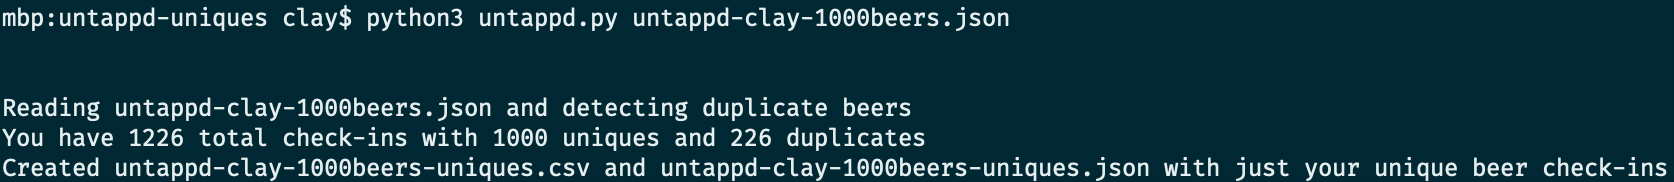
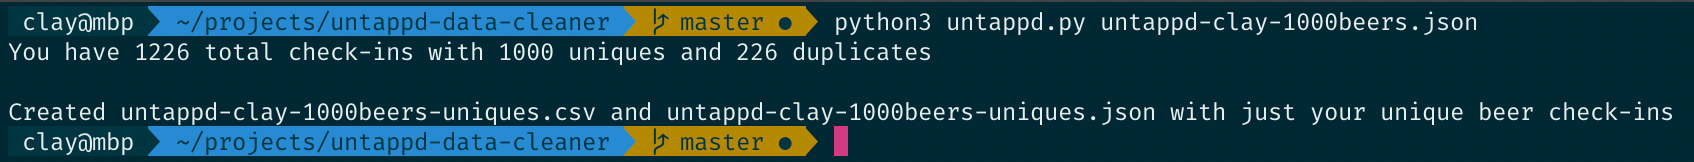
cleaned up code, new image for readme

diff --git a/untappd.py b/untappd.py
@@ -10,62 +10,26 @@ a = p.parse_args()
 data = json.load(open(a.file))
 fne = str(a.file[:len(a.file)-5]) + '-uniques.csv'
 fnej = str(a.file[:len(a.file)-5]) + '-uniques.json'
-
-def dupeFinder():
-    print('Reading ' + a.file + ' and detecting duplicate beers')
-    btlist = []
-
-    for i in range(0, len(data)):
-        beertupl = data[i]['beer_name'], data[i]['beer_url']  # different breweries name beers the same name
-        btlist.append(beertupl)
-
-    uniques = []
-    dupes = []
-    uniqueindexes = []
-    for i in range(0, len(btlist)):
-        if btlist[i] not in uniques:
-            uniques.append(btlist[i])
-            uniqueindexes.append(i)
-        else:
-            dupes.append(btlist[i])
-    print("You have " + str(len(btlist)) + ' total check-ins with ' + str(len(uniques)) + ' uniques and ' +
-          str(len(dupes)) + ' duplicates')
-    return uniqueindexes
-
-
-def createcsv(indexes):
-    with open(fne, 'w') as f:
-        cw = csv.writer(f)
-        cw.writerow(['beer_name', 'brewery_name', 'beer_type', 'beer_abv', 'beer_ibu', 'comment', 'venue_name',
+csv_header = ['beer_name', 'brewery_name', 'beer_type', 'beer_abv', 'beer_ibu', 'comment', 'venue_name',
                      'venue_city', 'venue_state', 'venue_country', 'venue_lat', 'venue_lng', 'rating_score',
                      'created_at', 'checkin_url', 'beer_url', 'brewery_url', 'brewery_country', 'brewery_city',
-                     'brewery_state', 'flavor_profiles', 'purchase_venue', 'serving_type'])
-        for i in indexes:
-            cw.writerow([data[i]['beer_name'], data[i]['brewery_name'], data[i]['beer_type'], data[i]['beer_abv'],
-                        data[i]['beer_ibu'], data[i]['comment'], data[i]['venue_name'], data[i]['venue_city'],
-                        data[i]['venue_state'], data[i]['venue_country'], data[i]['venue_lat'],
-                        data[i]['venue_lng'], data[i]['rating_score'], data[i]['created_at'],
-                        data[i]['checkin_url'], data[i]['beer_url'], data[i]['brewery_url'],
-                        data[i]['brewery_country'], data[i]['brewery_city'], data[i]['brewery_state'],
-                        data[i]['flavor_profiles'], data[i]['purchase_venue'], data[i]['serving_type']])
-
-
-def createjson():
-    ucsv = open(fne, 'r')
-    ujson = open(fnej, 'w')
-    r = csv.DictReader(ucsv)
-    ujson.write('[')
-    for i in r:
-        json.dump(i, ujson)
-        ujson.write(',')
-    ujson.write(']')
-
+                     'brewery_state', 'flavor_profiles', 'purchase_venue', 'serving_type']
 
 def main():
-    print('\n')
-    indexes = dupeFinder()
-    createcsv(indexes)
-    createjson()
-    print('Created ' + fne + ' and ' + fnej + ' with just your unique beer check-ins')
+    uniques = list({x['beer_url']:x for x in data}.values())
+    dupes = len(data) - len(uniques)
+
+    print("You have " + str(len(data)) + ' total check-ins with ' + str(len(uniques)) + ' uniques and ' +
+          str(dupes) + ' duplicates')
+
+    with open(fne, 'w') as fcsv:
+        cw = csv.DictWriter(fcsv, fieldnames=csv_header)
+        for i in range(0, len(uniques)):
+            cw.writerow(uniques[i])
+
+    with open(fnej, 'w') as fjson:
+        json.dump(uniques, fjson)
+
+    print('\nCreated ' + fne + ' and ' + fnej + ' with just your unique beer check-ins')
 
 main()

diff --git a/README.md b/README.md
@@ -7,10 +7,6 @@
 
 Run `python3 untappd.py <UNTAPPD-DATA>.json`
 
-or
-
-`./untappd.py <UNTAPPD-DATA>.json`
-
 ![output](https://github.com/claydugo/untappd-data-cleaner/blob/master/scr/untappd-uniques-cl.png?raw=true)
 
 ## License
